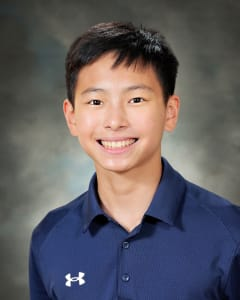
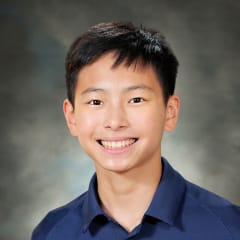
Trim the portrait to what the circle actually shows
Dragging the picture out of the page handed over the whole file, shirt and
all, because the circle was only ever a crop in the page — the file behind it
was 240x300.

So it is 240x240 now: the top square, which is exactly what `object-fit:
cover` was already showing. Cut with jpegtran rather than re-encoded, so the
pixels are the ones that were there before — every row identical but the last,
where the chroma has no neighbour below it any more and lands up to 5/255 out.
The home page renders bit-for-bit what it did; About differs across a hundred
pixels of the bottom edge by four values out of 255.

diff --git a/public/photos/about/README.md b/public/photos/about/README.md
@@ -9,6 +9,12 @@ It is masked to a circle and cropped from the top, so a head-and-shoulders shot
 works even if it is taller than it is wide. Roughly 400px square or larger keeps
 it sharp on high-resolution screens.
 
+The file here is square already, trimmed to exactly what the circle shows. A
+browser hands over the whole file when the picture is dragged out of the page,
+and the part the crop hides would have gone with it — so the crop is done to the
+file rather than only in the page. A taller replacement still works; it will just
+carry its own bottom around with it until it is trimmed the same way.
+
 To swap it, replace the file. To use a different name or shape, change SRC in
 src/components/Portrait.jsx — both sections read from there, so they cannot
 drift apart. If the file is missing the sections fall back to an initial in a
